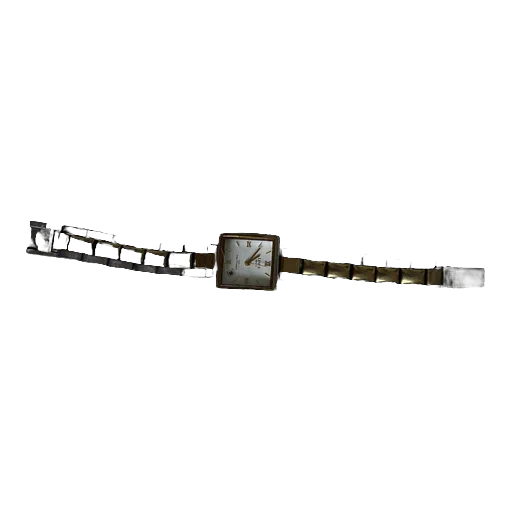
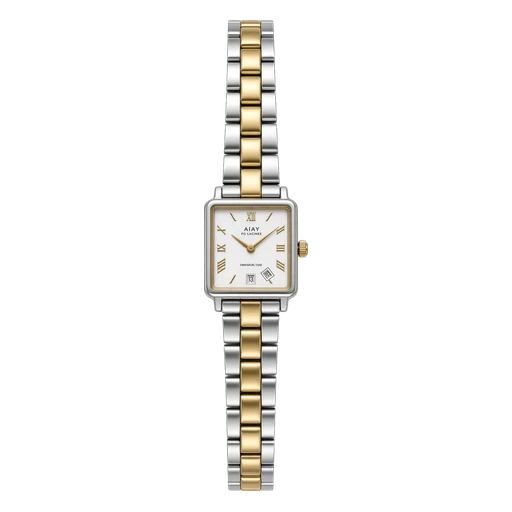
guarda-roupa: 210 pecas dos prints, joias e chapeus separados, sub-filtros

Changed region(s): [[0.0312, 0.0312, 0.9688, 0.9688]]

diff --git a/index.html b/index.html
@@ -10,7 +10,7 @@
 <link rel="preconnect" href="https://fonts.googleapis.com">
 <link rel="preconnect" href="https://fonts.gstatic.com" crossorigin>
 <link rel="stylesheet" href="https://fonts.googleapis.com/css2?family=Poppins:wght@400;500;600;700&display=swap">
-<link rel="stylesheet" href="css/app.css?v=1790127525">
+<link rel="stylesheet" href="css/app.css?v=1790129538">
 </head>
 <body>
 
@@ -19,7 +19,7 @@
     <div class="top-in">
       <div class="brand">
         <h1 class="d1">Guarda-<br>Roupa</h1>
-        <span class="sticker" id="count">211 peças</span>
+        <span class="sticker" id="count">212 peças</span>
       </div>
       <div class="top-acts">
         <button class="sq" id="btnAdd" title="Adicionar peça" aria-label="Adicionar peça">
@@ -66,8 +66,8 @@
 <div id="modalRoot"></div>
 
 <script src="https://js.puter.com/v2/"></script>
-<script src="js/avatar.js?v=1790127525"></script>
-<script src="js/data.js?v=1790127525"></script>
-<script src="js/app.js?v=1790127525"></script>
+<script src="js/avatar.js?v=1790129538"></script>
+<script src="js/data.js?v=1790129538"></script>
+<script src="js/app.js?v=1790129538"></script>
 </body>
 </html>

diff --git a/js/data.js b/js/data.js
@@ -208,6 +208,7 @@ window.CATALOGO = [
 ["p194","Colar dourado com medalha","joia","colar","VOIP"],
 ["p209","Colar dourado duplo fino","joia","colar","VOIP"],
 ["p183","Colar dourado três fios","joia","colar","VOIP"],
+["new_relogio_dourado","Relógio dourado e prata","joia","relógio","VOIP",2,"relógio de pulso com caixa quadrada, mostrador branco com números romanos, pulseira de elos em dois tons, dourado e prata"],
 ["new_bone_ny","Boné bege NEW YORK","chapeu","boné","VOIP",2,"boné aba curva bege cru com bordado preto em duas linhas NEW YORK e N.Y."],
 ["new_bone_roxo","Boné roxo too busy making money","chapeu","boné","VOIP",2,"boné aba curva roxo magenta com bordado branco em duas linhas, too busy making money, fonte serifada minúscula"],
 ["p003","Gorro preto","chapeu","gorro","I"]
